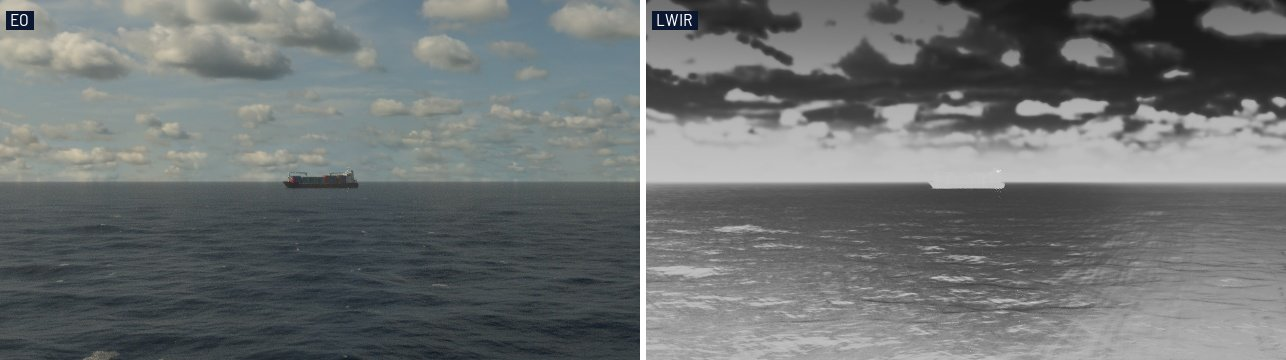
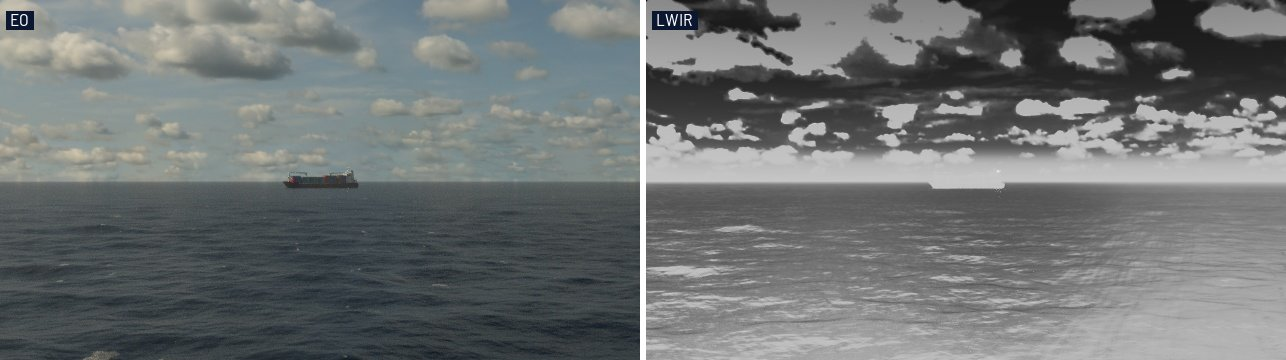
feat: the LWIR sky draws clouds at the photo's own resolution (#341)
* feat: the LWIR sky draws clouds at the photo's own resolution

* docs: re-render the hero and the eo-ir primer figure at the photo's resolution

* test: the world adds the share of a whole cloud to the clear sky

* test: one test walks the world's cloud graph and its resolutions

---------

diff --git a/seascape/blender/sky.py b/seascape/blender/sky.py
@@ -374,8 +374,12 @@ def _sky_image(sky: Sky) -> bpy.types.Image:
     # this build's.
     if (baked := bpy.data.images.get("sky_radiance")) is not None:
         return baked
-    sin_elevation = (np.arange(CURVE_SAMPLES) + 0.5) / CURVE_SAMPLES
-    return curve_image("sky_radiance", _table_sky(sky, np.arcsin(sin_elevation)))
+    return curve_image("sky_radiance", _table_sky(sky, _curve_elevation()))
+
+
+def _curve_elevation() -> np.ndarray:
+    """The elevation at each texel centre of a curve baked against sin(elevation)."""
+    return np.arcsin((np.arange(CURVE_SAMPLES) + 0.5) / CURVE_SAMPLES)
 
 
 def _table_sky(sky: Sky, elevation: np.ndarray) -> np.ndarray:
@@ -390,20 +394,23 @@ def _hazed(sky: Sky, radiance: np.ndarray, elevation: np.ndarray) -> np.ndarray:
     )
 
 
-def _cloudy_sky_image(sky: Sky) -> bpy.types.Image:
-    """`lwir.cloudy_sky_radiance` under the photo's clouds, laid out as the photo."""
+def _cloud_images(sky: Sky) -> tuple[bpy.types.Image, bpy.types.Image]:
+    """The photo's cloud share at its own resolution, and `lwir.cloudy_sky_radiance`
+    under it at THERMAL_SKY_PX, both laid out as the photo."""
     assert sky.hdri is not None
-    # The world baked it first.
+    # The world baked them first.
     if (baked := bpy.data.images.get("cloudy_sky_radiance")) is not None:
-        return baked
+        return bpy.data.images["cloud_share"], baked
     photo = _photo_image(sky.hdri)
     rgba = pixels(photo)
-    h, w = rgba.shape[:2]
     bpy.data.images.remove(photo)
-    f = max(1, w // THERMAL_SKY_PX)
-    rgb = cv2.resize(rgba, (w // f, h // f), interpolation=cv2.INTER_AREA)[..., :3]
     # Bottom row first, as Blender stores an image; `skies` reads top row first.
-    cloud = skies.cloud(rgb[::-1], skies.library()[sky.hdri])[::-1]
+    share = skies.cloud(rgba[::-1, :, :3], skies.library()[sky.hdri])[::-1]
+    # Judgement: steps of 1/255 of a whole cloud, for a quarter of a float image.
+    share_image = curve_image("cloud_share", share, float_buffer=False)
+    h, w = share.shape
+    f = max(1, w // THERMAL_SKY_PX)
+    cloud = cv2.resize(share, (w // f, h // f), interpolation=cv2.INTER_AREA)
     rows = cloud.shape[0]
     elevation = np.radians((np.arange(rows) + 0.5) / rows * 180.0 - 90.0)
     radiance = lwir.cloudy_sky_radiance(
@@ -418,17 +425,49 @@ def _cloudy_sky_image(sky: Sky) -> bpy.types.Image:
     fraction = weight @ cloud[up].mean(axis=1) / weight.sum()
     # A weighted mean of values in [0, 1] can round past 1.
     image["cloud_fraction"] = float(np.clip(fraction, 0.0, 1.0))
-    return image
+    return share_image, image
+
+
+def _cloudy_sky(
+    tree: bpy.types.NodeTree, sky: Sky, direction: bpy.types.NodeSocket
+) -> bpy.types.NodeSocket:
+    """The photo's sky in `direction`: radiance is affine in the cloud share, so the
+    clear sky plus the share of what a whole cloud adds."""
+    assert sky.hdri is not None
+    share_image, _ = _cloud_images(sky)
+    share = _turned(tree, share_image, sky.hdri, sky.sun_bearing_deg, direction)
+    # Linear shows the texel grid where a texel spans several pixels.
+    share.node.interpolation = "Cubic"
+    up = _sin_elevation(tree, direction)
+    return scalar(
+        tree,
+        "MULTIPLY_ADD",
+        share,
+        lookup(tree, _cloud_excess_image(sky), up),
+        lookup(tree, _sky_image(sky), up),
+    )
+
+
+def _cloud_excess_image(sky: Sky) -> bpy.types.Image:
+    """What a whole cloud adds to the hazed clear sky, baked as `_sky_image` is."""
+    if (baked := bpy.data.images.get("cloud_excess")) is not None:
+        return baked
+    elevation = _curve_elevation()
+    whole = lwir.cloudy_sky_radiance(
+        elevation, 1.0, sky.cloud_base_m, sky.t_air_k, sky.atmosphere
+    )
+    excess = _hazed(sky, whole, elevation) - _table_sky(sky, elevation)
+    return curve_image("cloud_excess", excess)
 
 
 def _clouds(sky: Sky) -> sea.Clouds | None:
     """The IR world's clouds by bearing, read off the image the world baked first."""
     if sky.hdri is None:
         return None
-    image = bpy.data.images["cloudy_sky_radiance"]
+    _, image = _cloud_images(sky)
     rgba = pixels(image)
     h = rgba.shape[0]
-    # Bottom row first, as `_cloudy_sky_image` lays it out.
+    # Bottom row first, as `_cloud_images` lays it out.
     elevation = np.radians((np.arange(h) + 0.5) / h * 180.0 - 90.0)
     radiance = rgba[..., 0].astype(np.float64)
     return sea.Clouds(
@@ -440,7 +479,7 @@ def _sky_round(sky: Sky, clouds: sea.Clouds | None) -> sea.SkyCurve:
     """The IR world's radiance against elevation, averaged round the horizon: its clear
     sky's table, or its clouds' rows."""
     if clouds is None:
-        elevation = np.arcsin((np.arange(CURVE_SAMPLES) + 0.5) / CURVE_SAMPLES)
+        elevation = _curve_elevation()
         return elevation, _table_sky(sky, elevation)
     return clouds.elevation, clouds.radiance.mean(axis=1)
 
@@ -469,12 +508,14 @@ def _ir_sky(
 ) -> bpy.types.NodeSocket:
     """The ir world's radiance in `direction`."""
     if sky.hdri is not None:
-        radiance = _turned(
-            tree, _cloudy_sky_image(sky), sky.hdri, sky.sun_bearing_deg, direction
-        )
-        # Linear shows the texel grid where a texel spans several pixels.
-        radiance.node.interpolation = "Cubic"
-        return radiance
+        return _cloudy_sky(tree, sky, direction)
+    return lookup(tree, _sky_image(sky), _sin_elevation(tree, direction))
+
+
+def _sin_elevation(
+    tree: bpy.types.NodeTree, direction: bpy.types.NodeSocket
+) -> bpy.types.NodeSocket:
+    """A unit `direction`'s Z, held at 0 below the horizon."""
     height = tree.nodes.new("ShaderNodeSeparateXYZ")
     above = tree.nodes.new("ShaderNodeMath")
     above.operation = "MAXIMUM"
@@ -482,7 +523,7 @@ def _ir_sky(
     above.inputs["Value_001"].default_value = 0.0
     tree.links.new(direction, height.inputs["Vector"])
     tree.links.new(height.outputs["Z"], above.inputs["Value"])
-    return lookup(tree, _sky_image(sky), above.outputs["Value"])
+    return above.outputs["Value"]
 
 
 def _rough_glossy(tree: bpy.types.NodeTree) -> bpy.types.NodeSocket:

diff --git a/tests/test_scene.py b/tests/test_scene.py
@@ -1835,27 +1835,53 @@ class TestPhotographedThermalSky:
     @classmethod
     def built(cls, tmp_path_factory: pytest.TempPathFactory) -> None:
         path = tmp_path_factory.mktemp("sky") / "white.hdr"
-        image = bpy.data.images.new("white", 64, 32, float_buffer=True)
-        image.pixels.foreach_set(np.ones(64 * 32 * 4, np.float32))
+        image = bpy.data.images.new("white", 128, 64, float_buffer=True)
+        image.pixels.foreach_set(np.ones(128 * 64 * 4, np.float32))
         image.filepath_raw = str(path)
         image.file_format = "HDR"
         image.save()
         with pytest.MonkeyPatch.context() as patch:
             patch.setattr("seascape.blender.sky.download", lambda *_: path)
+            patch.setattr("seascape.blender.sky.THERMAL_SKY_PX", 64)
             scene.build(variant(sky={"hdri": "overcast_soil"}), "ir")
 
-    def test_the_clouds_are_the_world(self) -> None:
+    def test_the_world_adds_the_photo_s_share_of_a_whole_cloud_to_the_clear_sky(
+        self,
+    ) -> None:
         tree = bpy.data.worlds["sky"].node_tree
-        (photo,) = (n for n in tree.nodes if n.bl_idname == "ShaderNodeTexEnvironment")
-        assert photo.image.name == "cloudy_sky_radiance"
-        assert photo.name in upstream(tree.nodes["Background"].inputs["Color"])
+        (mix,) = (
+            tree.nodes[n]
+            for n in upstream(tree.nodes["Background"].inputs["Color"])
+            if getattr(tree.nodes[n], "operation", None) == "MULTIPLY_ADD"
+        )
+        images = [i.links[0].from_node.image for i in mix.inputs]
+        assert [i.name for i in images] == [
+            "cloud_share",
+            "cloud_excess",
+            "sky_radiance",
+        ]
+        # The share keeps the photo's resolution; the radiance is solved coarser.
+        assert tuple(images[0].size) == (128, 64)
+        assert tuple(bpy.data.images["cloudy_sky_radiance"].size) == (64, 32)
+
+    def test_the_world_s_whole_cloud_is_lwir_s(self) -> None:
+        top = baked("sky_radiance")[-1] + baked("cloud_excess")[-1]
+        sky = variant(sky={"hdri": "overcast_soil"}).sky
+        elevation = np.arcsin((blend.CURVE_SAMPLES - 0.5) / blend.CURVE_SAMPLES)
+        cloud = lwir.cloudy_sky_radiance(
+            elevation, 1.0, sky.cloud_base_m, sky.t_air_k, sky.atmosphere
+        )
+        expected = aerosol.sky_radiance(
+            cloud, elevation, sky.visibility_km, sky.t_air_k, sky.atmosphere
+        )
+        assert top == pytest.approx(float(expected), rel=1e-5)
 
     def test_the_haze_takes_its_airlight_from_the_clouds(self) -> None:
         nodes = bpy.data.node_groups["haze"].nodes
         airlight = upstream(nodes["haze_airlight"].inputs["Color"])
         assert any(
             nodes[name].bl_idname == "ShaderNodeTexEnvironment"
-            and nodes[name].image.name == "cloudy_sky_radiance"
+            and nodes[name].image.name == "cloud_share"
             for name in airlight
         )
 

diff --git a/seascape/blender/blend.py b/seascape/blender/blend.py
@@ -74,17 +74,21 @@ def drive(
     driver.expression = expression
 
 
-def curve_image(name: str, values: np.ndarray) -> bpy.types.Image:
+def curve_image(
+    name: str, values: np.ndarray, float_buffer: bool = True
+) -> bpy.types.Image:
     """A lookup the shader samples with a Combine XYZ into an Image Texture: one row,
-    or rows bottom first."""
+    or rows bottom first. Without `float_buffer`, 8 bits of values in [0, 1]."""
     table = np.atleast_2d(np.asarray(values, dtype=np.float32))
     height, width = table.shape
-    image = bpy.data.images.new(name, width, height, float_buffer=True, is_data=True)
+    image = bpy.data.images.new(
+        name, width, height, float_buffer=float_buffer, is_data=True
+    )
     pixels = np.ones((height, width, 4), dtype=np.float32)
     pixels[..., :3] = table[..., None]
     image.pixels.foreach_set(pixels.ravel())
     # Unpacked, a generated image saves as its fill colour; EXR keeps floats.
-    image.file_format = "OPEN_EXR"
+    image.file_format = "OPEN_EXR" if float_buffer else "PNG"
     image.pack()
     return image
 
